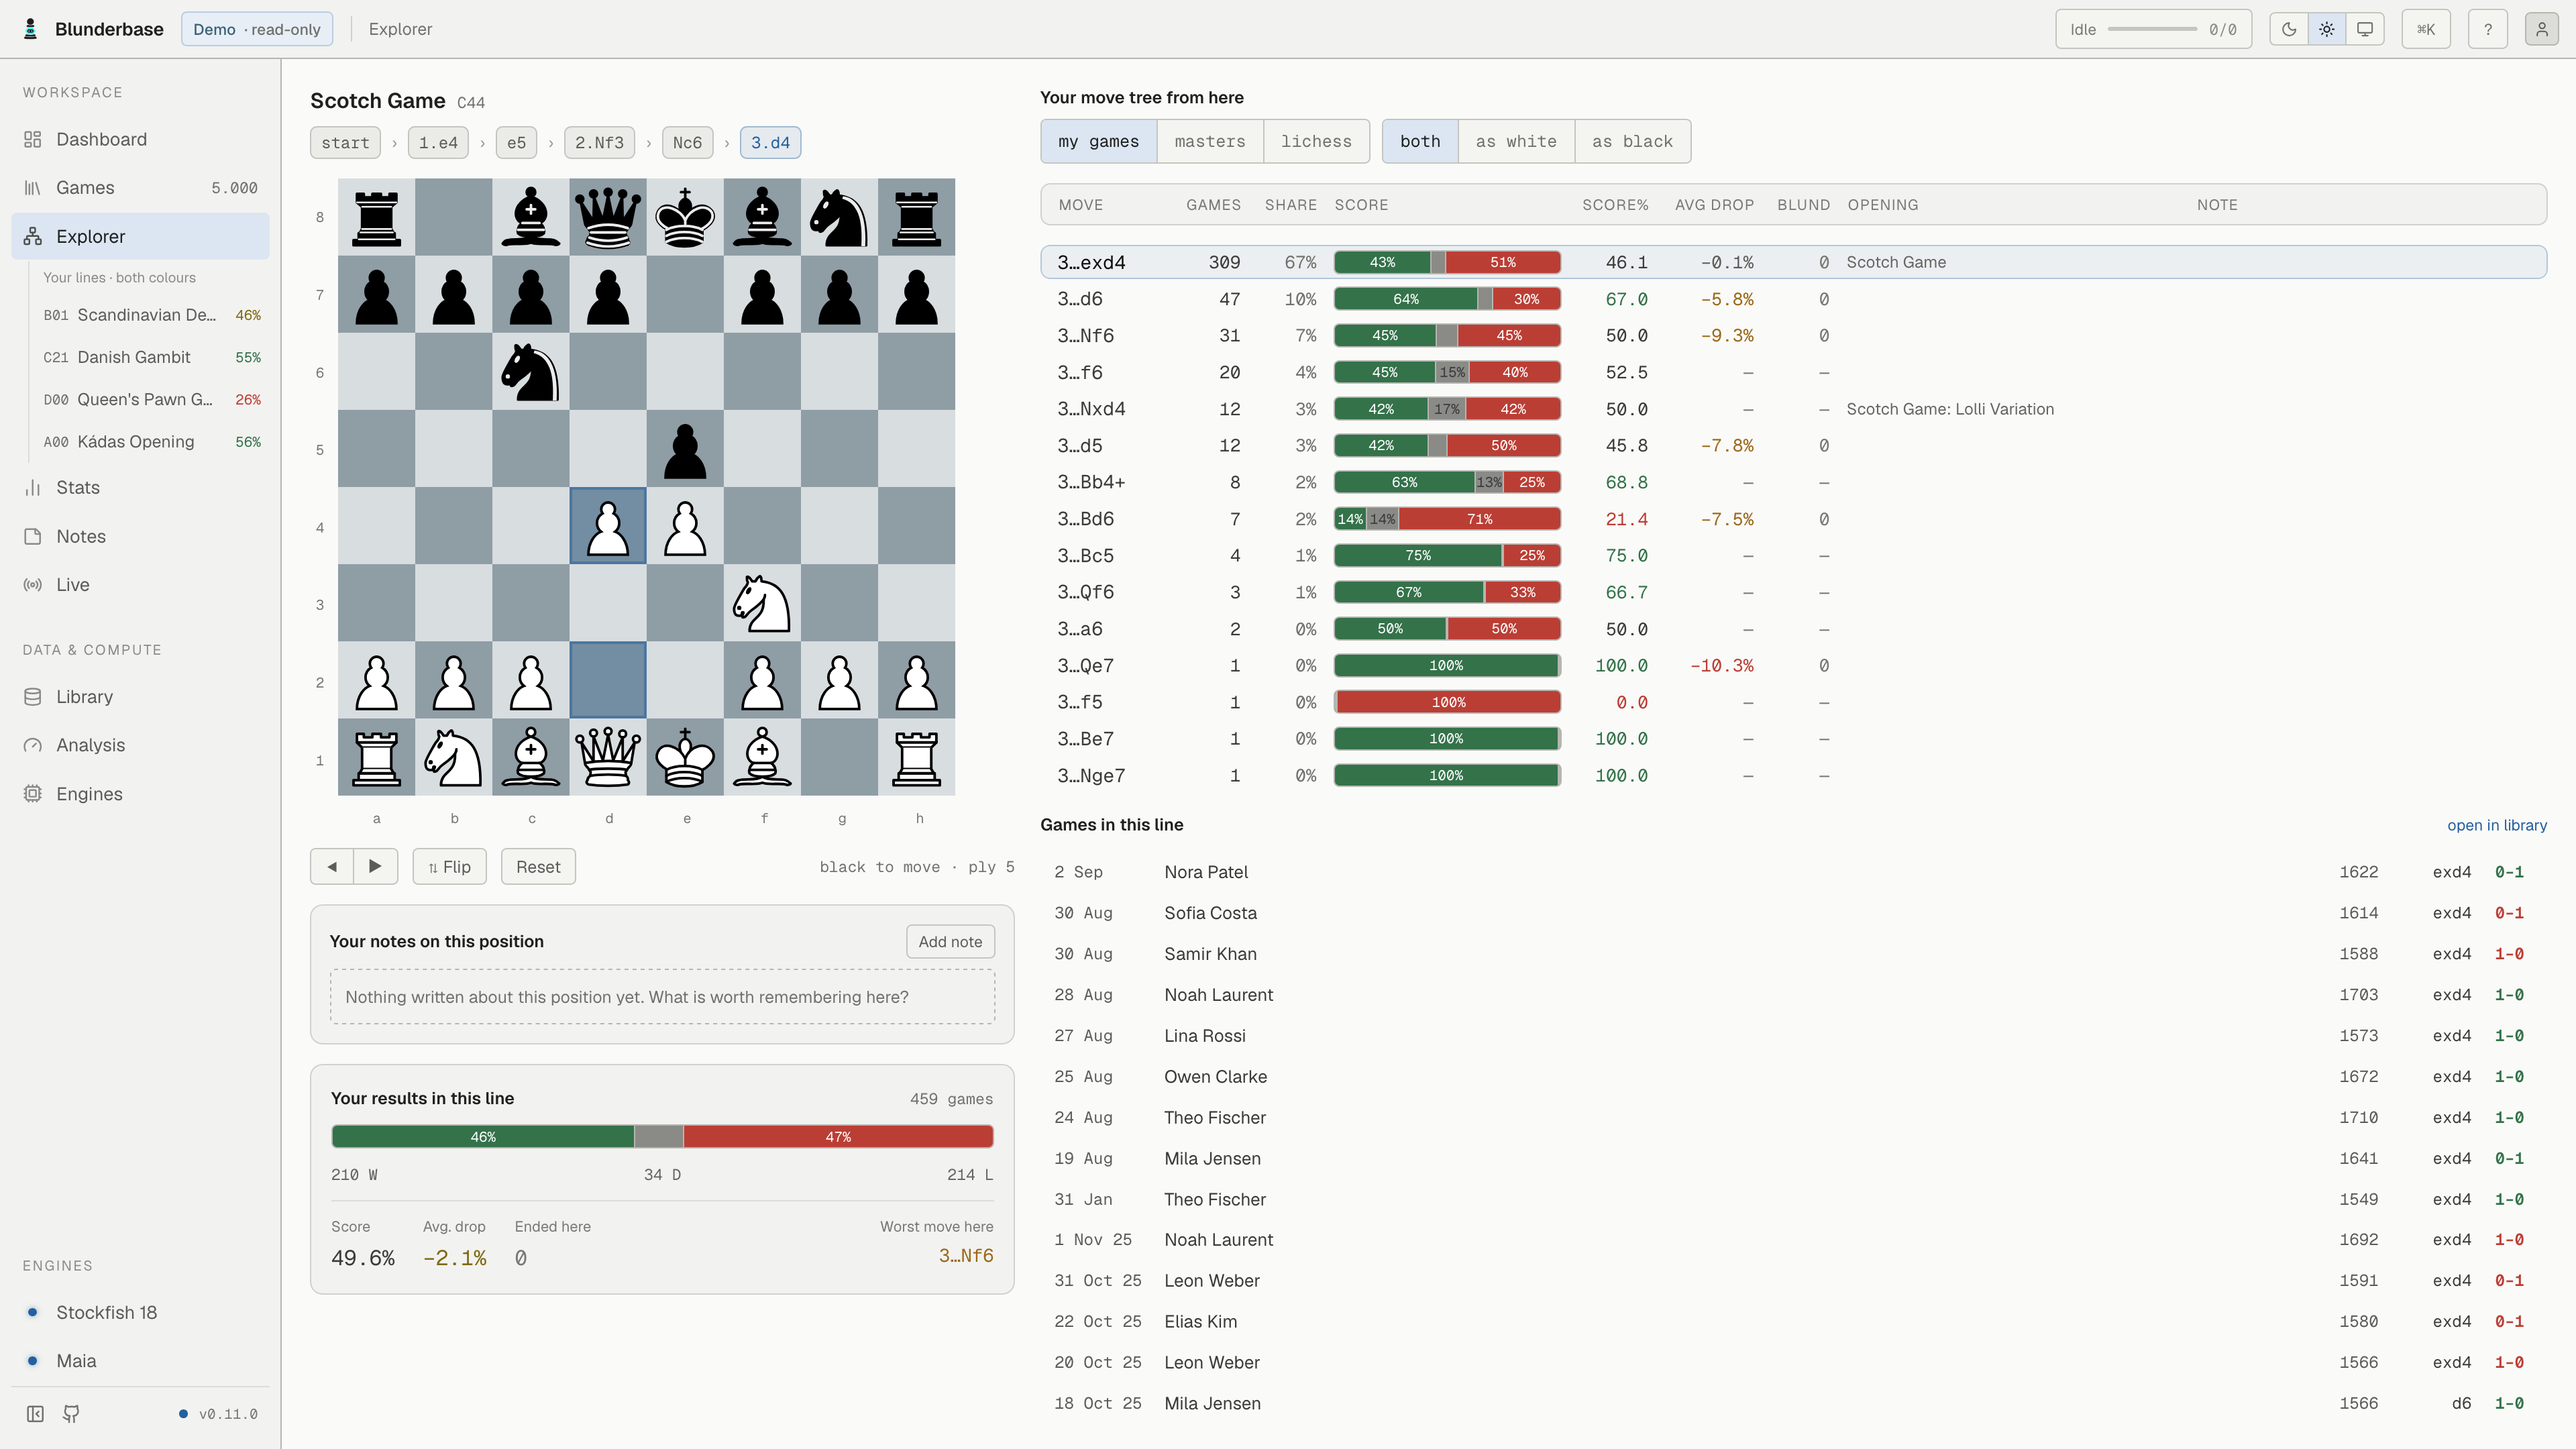
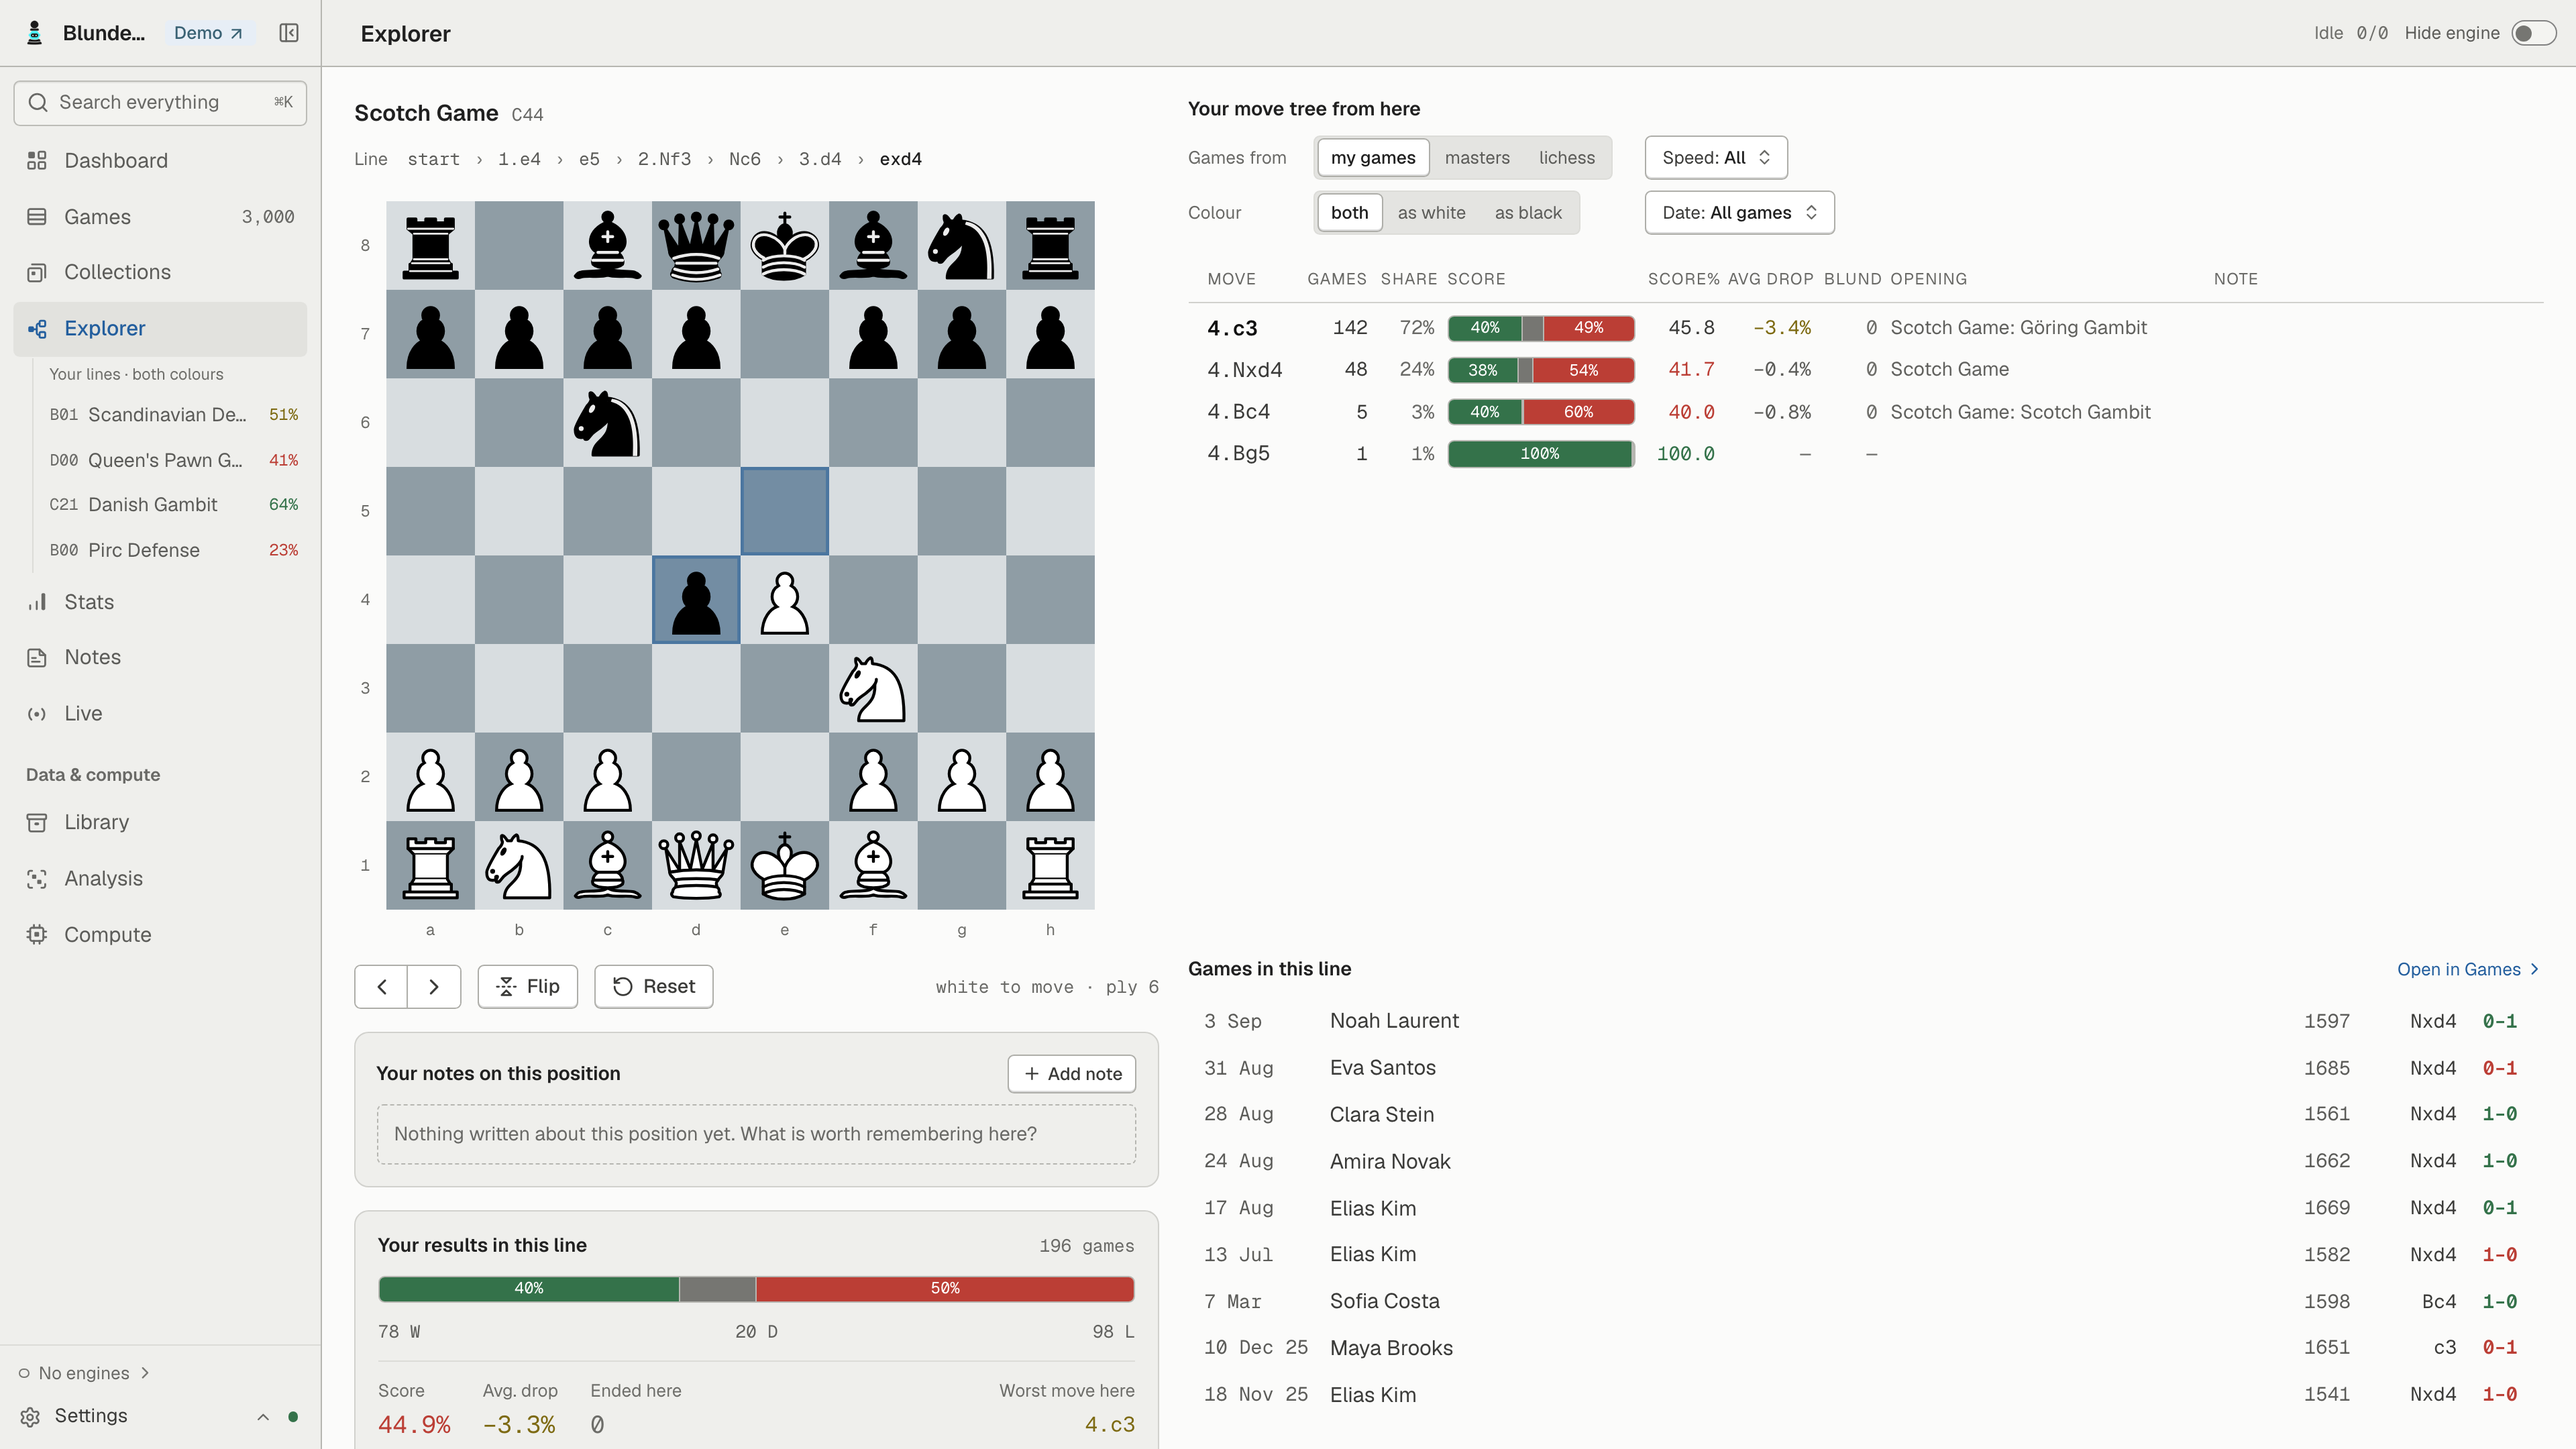
chore: new README and site screenshots, the explorer on a shared opening
The explorer scene opened on the note the game scene uses, which in the demo sits
at move 93: a 185-ply line over a one-game tree. It now opens on the six-ply line
the most demo games share.

diff --git a/scripts/screenshots.py b/scripts/screenshots.py
@@ -31,6 +31,7 @@ import subprocess
 import sys
 import time
 import urllib.request
+from collections import Counter
 from collections.abc import Callable
 from dataclasses import dataclass, field
 from pathlib import Path
@@ -54,13 +55,23 @@ ENGINE_HIDDEN_KEY = "blunderbase.engineHidden"
 SETTLE_MS = 1200
 
 
+# How deep the explorer scene opens: far enough in to be an opening rather than the start
+# position, shallow enough that the demo's games still branch into a tree worth showing.
+EXPLORER_PLY = 6
+
+
 @dataclass(frozen=True)
 class Hero:
-    """The position the game, quiet-game and explorer scenes share."""
+    """Where the scenes that need a position open.
+
+    The game and quiet-game scenes share a game and a ply, the one a note sits on. The
+    explorer gets a line of its own: a note can sit deep in an endgame, and the explorer
+    there is a one-game tree under a line of moves that fills the screen.
+    """
 
     game_id: int
     ply: int
-    line: tuple[str, ...]
+    opening: tuple[str, ...]
 
 
 @dataclass(frozen=True)
@@ -82,7 +93,7 @@ SCENES: tuple[Scene, ...] = (
         ready=".cg-wrap",
     ),
     Scene("notes", lambda h: "/notes"),
-    Scene("explorer", lambda h: "/explorer?line=" + ",".join(h.line), ready=".cg-wrap"),
+    Scene("explorer", lambda h: "/explorer?line=" + ",".join(h.opening), ready=".cg-wrap"),
     Scene("dashboard", lambda h: "/"),
     Scene("games", lambda h: "/games"),
     Scene("stats", lambda h: "/stats"),
@@ -90,16 +101,22 @@ SCENES: tuple[Scene, ...] = (
 
 
 def pick_hero(path: Path) -> Hero:
-    """The first game in the demo with a note on one of its positions, at that note's ply."""
+    """The first game in the demo with a note on one of its positions, at that note's ply,
+    and the line of `EXPLORER_PLY` moves the most demo games open with."""
     with sqlite3.connect(f"file:{path}?mode=ro", uri=True) as connection:
         row = connection.execute(
-            "select n.game_id, n.ply, g.moves_uci from notes n join games g on g.id = n.game_id"
-            " where n.ply is not null order by n.id limit 1"
+            "select n.game_id, n.ply from notes n where n.game_id is not null"
+            " and n.ply is not null order by n.id limit 1"
         ).fetchone()
+        openings = Counter(
+            tuple(json.loads(moves)[:EXPLORER_PLY])
+            for (moves,) in connection.execute("select moves_uci from games")
+        )
     if row is None:
         raise RuntimeError("the demo library has no note on a game position to shoot")
-    game_id, ply, moves = row
-    return Hero(game_id=game_id, ply=ply, line=tuple(json.loads(moves)[:ply]))
+    opening = next((line for line, _ in openings.most_common() if len(line) == EXPLORER_PLY), ())
+    game_id, ply = row
+    return Hero(game_id=game_id, ply=ply, opening=opening)
 
 
 def free_port() -> int:

diff --git a/docs/contributing.md b/docs/contributing.md
@@ -123,10 +123,11 @@ make screenshots only=notes     # one scene
 It serves `data/demo.db` (built by `make data/demo.db` if missing) from the API process on
 a free port, so a running `make run` is not disturbed, and drives a headless Chromium at
 1920×1080 and a device scale of 2 — 3840×2160, the size the pages declare. The scenes are
-the table at the top of `scripts/screenshots.py`; the game screen, the hidden-engine game
-screen and the explorer all open on the first demo note that sits on a game position, so
-what the demo writes in `backend/services/demo.py` (`NOTE_TEXTS`, `_notes`) is what those
-pictures show. Rebuild the demo (`rm data/demo.db`) after changing it.
+the table at the top of `scripts/screenshots.py`; the game screen and the hidden-engine game
+screen open on the first demo note that sits on a game position, so what the demo writes in
+`backend/services/demo.py` (`NOTE_TEXTS`, `_notes`) is what those pictures show. Rebuild the
+demo (`rm data/demo.db`) after changing it. The explorer opens on the six-ply line the most
+demo games share.
 
 Look at every picture before committing it: the script waits for the network and a
 moment for the board to settle, but it cannot tell a good position from a dull one. The
